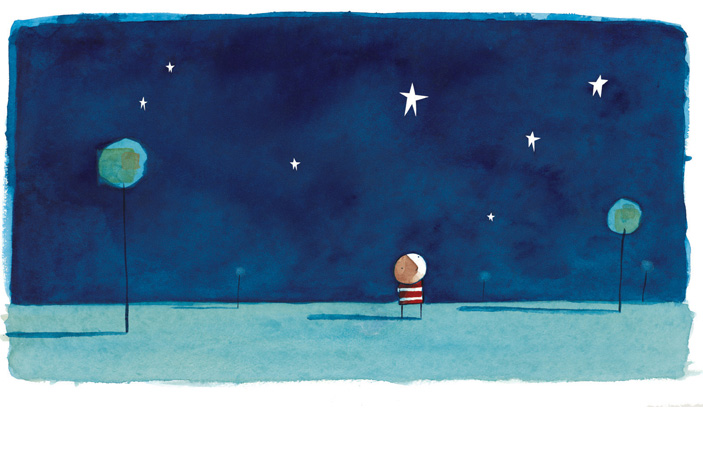
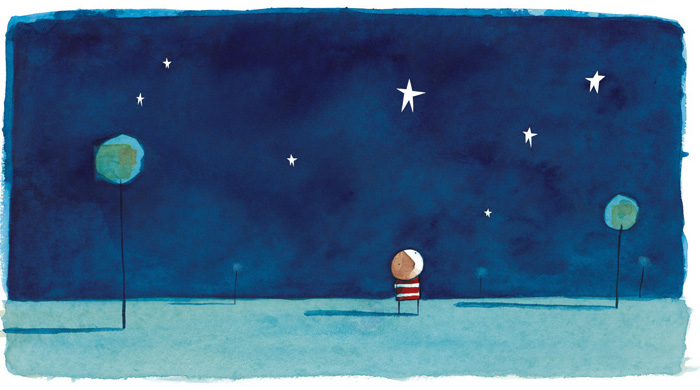
theme improvements

diff --git a/js/themes.js b/js/themes.js
@@ -70,7 +70,7 @@ var initializeStarPlot = function() {
             
         var colorChoices = ["rgb(221, 56, 0)", "rgb(221, 137, 20)", "rgb(234, 225, 89)", "rgb(106, 137, 234)"]
         var colors = d3.scale.linear()
-            .domain(d3.range(0, 1, 1.0 / (colorChoices.length - 1)))
+            .domain(d3.range(0, 1.01, 1.0 / (colorChoices.length - 1)))
             .range(colorChoices);
         var c = d3.scale.log()
             .domain(d3.extent(masses))
@@ -82,7 +82,7 @@ var initializeStarPlot = function() {
             .append("circle")
             .attr("cx", function(d) { return x(d[0]); })
             .attr("cy", function(d) { return y(d[1]); })
-            .attr("r", function(d, i) { return 20 * Math.sqrt(masses[i]/d3.max(masses)); })
+            .attr("r", function(d, i) { return 30 * Math.sqrt(masses[i]/d3.max(masses)); })
             .attr("fill", function(d, i) { return colors(c(masses[i])); })
             .attr("opacity", 0.8)
             .attr("class", "kepler star diffuse")
@@ -94,7 +94,7 @@ var initializeStarPlot = function() {
             .append("circle")
             .attr("cx", function(d) { return x(d[0]); })
             .attr("cy", function(d) { return y(d[1]); })
-            .attr("r", function(d, i) { return 18 * Math.sqrt(masses[i]/d3.max(masses)); })
+            .attr("r", function(d, i) { return 27 * Math.sqrt(masses[i]/d3.max(masses)); })
             .attr("fill", function(d, i) { return colors(c(masses[i])); })
             .attr("opacity", 0.5)
             .attr("class", "kepler star solid");
@@ -105,7 +105,7 @@ var initializeStarPlot = function() {
             .append("circle")
             .attr("cx", function(d) { return x(d[0]); })
             .attr("cy", function(d) { return y(d[1]); })
-            .attr("r", function(d, i) { return 5 * Math.sqrt(masses[i]/d3.max(masses)); })
+            .attr("r", function(d, i) { return 7.5 * Math.sqrt(masses[i]/d3.max(masses)); })
             .attr("fill", "rgba(255, 255, 255, .9)")
             .attr("class", "kepler star compact")
             .attr("filter", "url(#gaussblur2)");
@@ -127,6 +127,14 @@ var transitionStars = function(duration) {
             .attr("d", lineFunction)
             .duration(duration);
     }
+    else if (theme === "kepler") {
+        d3.selectAll(".star")
+          .transition()
+            .ease("linear")
+            .attr("cx", function(d) { return x(d[0]); })
+            .attr("cy", function(d) { return y(d[1]); })
+            .duration(duration);
+    }
 };
 
 
@@ -136,7 +144,7 @@ var setBackgroundImage = function() {
         fBgImg = "images/htcas_2.jpg";
     }
     else if (theme === "kepler") {
-        fBgImg = "images/htcas_2.jpg";
+        fBgImg = "images/purple-nebula.jpg";
     }
     d3.select("#backgroundImage").attr("xlink:href", fBgImg);
 };

diff --git a/index.html b/index.html
@@ -1,5 +1,6 @@
 <!DOCTYPE html>
 <head>
+  <link href='http://fonts.googleapis.com/css?family=Open+Sans:400,700,300,600' rel='stylesheet' type='text/css'>
   <link href="style.css" rel="stylesheet" type="text/css">
   <script src="js/jquery.min.js"></script>
   <script src="js/d3.v3.min.js"></script>
@@ -8,13 +9,42 @@
 </head>
 <body>
     <div id="nbodycanvas"></div>
+    <span id="keplerChooser" class="selector selected" onclick="selectKepler()">Kepler theme</span>
+    <span id="jeffersChooser" class="selector" onclick="selectJeffers()">Jeffers theme</span>
     </br>
     <a href = "http://www.oliverjeffers.com/picture-books/how-to-catch-a-star">buy some Oliver Jeffers books</a>
 
     <script type="text/javascript">
 
-    var theme = "kepler";
-    var nStars = 16,
+    var selectKepler = function() {
+        theme = "kepler";
+        $("#jeffersChooser").attr("class", "selector");
+        $("#keplerChooser").attr("class", "selector selected");
+        $("#starLayer").empty();
+        setBackgroundImage();
+        generateStars();
+        equilibrateStars();
+        calcAccels();
+        starsvg = initializeStarPlot();
+        integrateStars();
+    };
+    var selectJeffers = function() {
+        theme = "jeffers";
+        $("#keplerChooser").attr("class", "selector");
+        $("#jeffersChooser").attr("class", "selector selected");
+        $("#starLayer").empty();
+        starApexes = [],
+        apexStorage = [];
+        setBackgroundImage();
+        generateStars();
+        equilibrateStars();
+        calcAccels();
+        starsvg = initializeStarPlot();
+        integrateStars();
+    };
+
+    var theme = "jeffers";
+    var nStars = 32,
         masses,
         pos,
         vel,
@@ -23,8 +53,8 @@
     var starApexes = [],
         apexStorage = [];
     
-    var w = 703,
-        h = 474;
+    var w = 700,
+        h = 390;
         
     var x = d3.scale.linear()
             .range([0, w]),
@@ -44,7 +74,7 @@
         equilibrateStars();
         calcAccels();
         starsvg = initializeStarPlot();
-       // integrateStars();
+        integrateStars();
     })
 
     /////////////////////////////////////////
@@ -124,7 +154,7 @@
     
     var integrateStars = function() {
         var fps = 64;
-        var dt = .005;
+        var dt = .002;
         var count = 0;
         setInterval( function() {
             leapfrogStep(dt);

diff --git a/style.css b/style.css
@@ -2,3 +2,34 @@
     fill: white;
     stroke: #666666;
 }
+
+body {
+    font-family: "Open Sans", sans-serif;
+    font-weight: 300;
+}
+
+.selector {
+    cursor: pointer;
+    padding-right: 40px;
+}
+
+.selector.selected {
+    font-weight: 400;
+}
+
+ a {
+		text-decoration: none;
+		color: inherit;
+		border-bottom: dotted 1px rgba(128,128,128,0.5);
+		-moz-transition: color 0.35s ease-in-out, border-bottom-color 0.35s ease-in-out;
+		-webkit-transition: color 0.35s ease-in-out, border-bottom-color 0.35s ease-in-out;
+		-o-transition: color 0.35s ease-in-out, border-bottom-color 0.35s ease-in-out;
+		-ms-transition: color 0.35s ease-in-out, border-bottom-color 0.35s ease-in-out;
+		transition: color 0.35s ease-in-out, border-bottom-color 0.35s ease-in-out;
+		outline: 0;
+}
+    a:hover
+		{
+			color: #E27689;
+			border-bottom-color: rgba(255,255,255,0);
+		}
